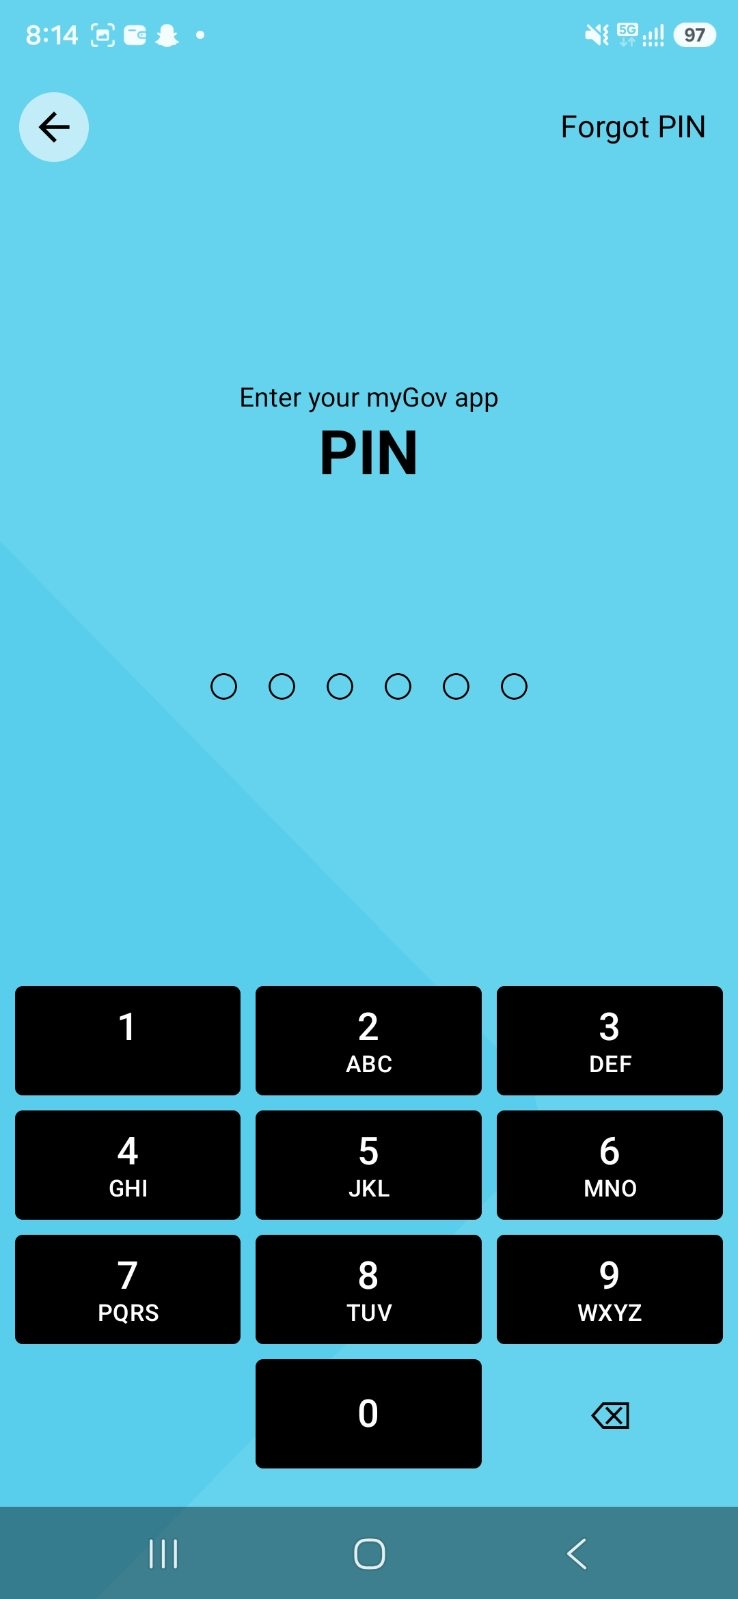
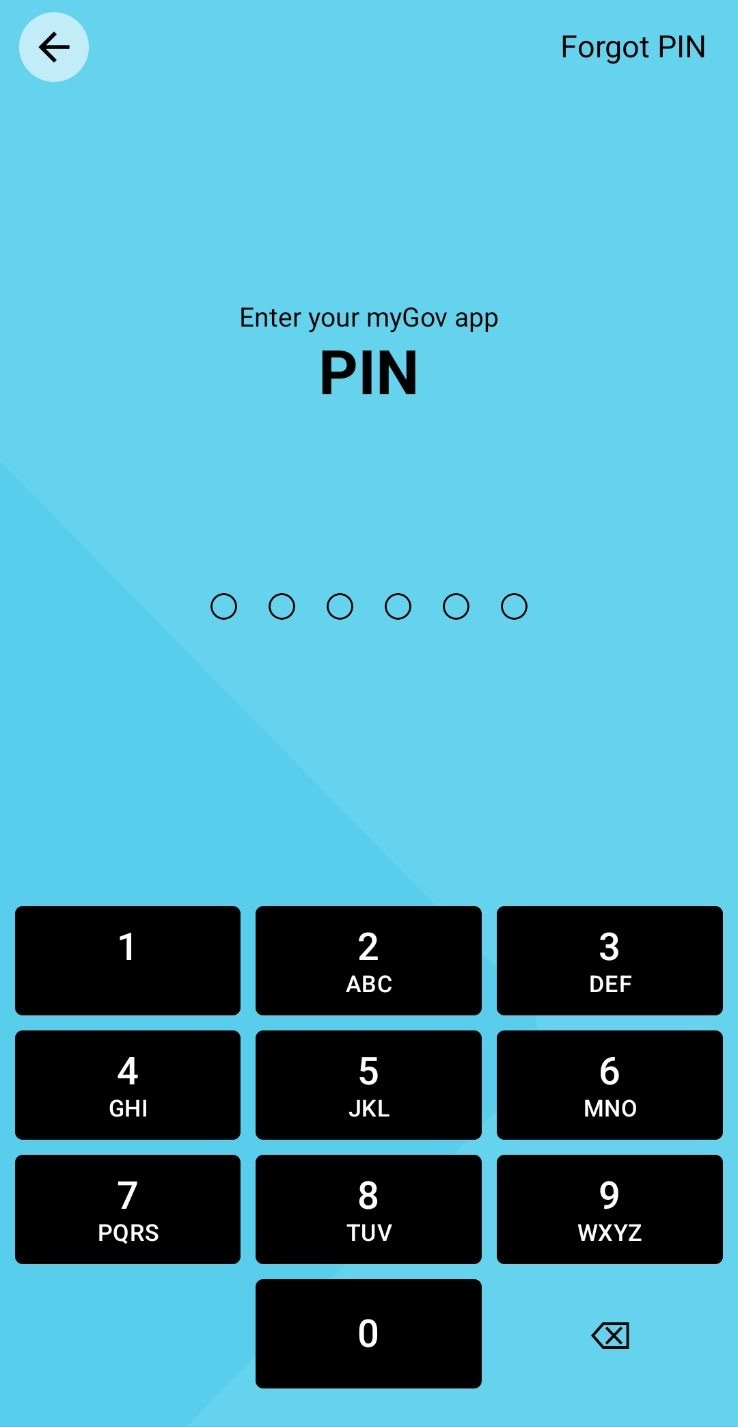
Crop system chrome off the screenshot screens
Strip the Android status bar and 3-button nav from the reference stills so the app UI fills the phone template. Keep the myGov headers and tab bar, and remap tap targets to the cropped frames.

diff --git a/index.html b/index.html
@@ -17,19 +17,19 @@
     <div id="phone">
       <div id="app">
 
-        <section class="screen active" id="welcome" style="background-image:url('screens/welcome.jpg?v=2')">
-          <button class="hot" style="left:78%;top:6.4%;width:10%;height:4.6%" data-go="scanner" aria-label="Scan"></button>
-          <button class="hot" style="left:88.5%;top:6.4%;width:10%;height:4.6%" data-go="info" aria-label="Info"></button>
+        <section class="screen active" id="welcome" style="background-image:url('screens/welcome.jpg?v=3')">
+          <button class="hot" style="left:78%;top:1.6%;width:10%;height:5.2%" data-go="scanner" aria-label="Scan"></button>
+          <button class="hot" style="left:88.5%;top:1.6%;width:10%;height:5.2%" data-go="info" aria-label="Info"></button>
           <div class="cover cover-cyan name-cover" id="welcomeNameCover">
             <span id="welcomeName">James</span>
           </div>
-          <button class="hot" style="left:4%;top:79.8%;width:92%;height:5.8%" data-go="pin" aria-label="Continue"></button>
-          <button class="hot" style="left:22%;top:88.4%;width:56%;height:2.4%" data-go="signin" aria-label="Sign in as someone else"></button>
+          <button class="hot" style="left:4%;top:83.8%;width:92%;height:6.5%" data-go="pin" aria-label="Continue"></button>
+          <button class="hot" style="left:22%;top:93.4%;width:56%;height:2.7%" data-go="signin" aria-label="Sign in as someone else"></button>
         </section>
 
-        <section class="screen" id="pin" style="background-image:url('screens/pin.jpg?v=2')">
-          <button class="hot" style="left:3%;top:6.8%;width:12%;height:4.6%" data-go="welcome" aria-label="Back"></button>
-          <button class="hot" style="left:70%;top:6.8%;width:27%;height:4.6%" data-go="forgot" aria-label="Forgot PIN"></button>
+        <section class="screen" id="pin" style="background-image:url('screens/pin.jpg?v=3')">
+          <button class="hot" style="left:3%;top:2.0%;width:12%;height:5.2%" data-go="welcome" aria-label="Back"></button>
+          <button class="hot" style="left:70%;top:2.0%;width:27%;height:5.2%" data-go="forgot" aria-label="Forgot PIN"></button>
           <div class="pin-dots" id="pinDots"><i></i><i></i><i></i><i></i><i></i><i></i></div>
           <div class="keypad">
             <button data-k="1"></button><button data-k="2"></button><button data-k="3"></button>
@@ -39,12 +39,12 @@
           </div>
         </section>
 
-        <section class="screen" id="wallet" style="background-image:url('screens/wallet.jpg?v=2')">
-          <button class="hot" style="left:76%;top:5.8%;width:10%;height:4.8%" data-msg="Edit wallet" aria-label="Edit"></button>
-          <button class="hot" style="left:87%;top:5.8%;width:10%;height:4.8%" data-go="addcard" aria-label="Add"></button>
-          <button class="hot" style="left:4%;top:19.2%;width:92%;height:26.2%" data-go="hcc" aria-label="Health Care Card"></button>
+        <section class="screen" id="wallet" style="background-image:url('screens/wallet.jpg?v=3')">
+          <button class="hot" style="left:76%;top:0.9%;width:10%;height:5.4%" data-msg="Edit wallet" aria-label="Edit"></button>
+          <button class="hot" style="left:87%;top:0.9%;width:10%;height:5.4%" data-go="addcard" aria-label="Add"></button>
+          <button class="hot" style="left:4%;top:15.9%;width:92%;height:29.4%" data-go="hcc" aria-label="Health Care Card"></button>
           <div class="cover cover-cream initials-cover" id="hccCover"><span id="hccInitials">JSP</span></div>
-          <button class="hot" style="left:4%;top:47%;width:92%;height:26.2%" data-go="medicare" aria-label="Medicare card"></button>
+          <button class="hot" style="left:4%;top:47.1%;width:92%;height:29.4%" data-go="medicare" aria-label="Medicare card"></button>
           <div class="cover cover-medgreen mednum-cover" id="walletMedCover">
             <div id="walletMedNum">**** **549 6</div>
             <div id="walletPeople">2 people</div>
@@ -57,14 +57,14 @@
           </div>
         </section>
 
-        <section class="screen" id="services" style="background-image:url('screens/services.jpg?v=2')">
-          <button class="hot" style="left:76%;top:5.8%;width:10%;height:4.8%" data-msg="Edit services" aria-label="Edit"></button>
-          <button class="hot" style="left:87%;top:5.8%;width:10%;height:4.8%" data-go="linksvc" aria-label="Add"></button>
-          <button class="hot" style="left:4%;top:19.3%;width:92%;height:6.8%" data-go="forms" aria-label="Forms"></button>
-          <button class="hot" style="left:4%;top:31.4%;width:92%;height:7.8%" data-svc="Centrelink"></button>
-          <button class="hot" style="left:4%;top:39.2%;width:92%;height:7.8%" data-go="medicare"></button>
-          <button class="hot" style="left:4%;top:47.1%;width:92%;height:7.8%" data-svc="My Health Record"></button>
-          <button class="hot" style="left:4%;top:55%;width:92%;height:8%" data-svc="Workforce Australia"></button>
+        <section class="screen" id="services" style="background-image:url('screens/services.jpg?v=3')">
+          <button class="hot" style="left:76%;top:0.9%;width:10%;height:5.4%" data-msg="Edit services" aria-label="Edit"></button>
+          <button class="hot" style="left:87%;top:0.9%;width:10%;height:5.4%" data-go="linksvc" aria-label="Add"></button>
+          <button class="hot" style="left:4%;top:16.0%;width:92%;height:7.6%" data-go="forms" aria-label="Forms"></button>
+          <button class="hot" style="left:4%;top:29.6%;width:92%;height:8.7%" data-svc="Centrelink"></button>
+          <button class="hot" style="left:4%;top:38.3%;width:92%;height:8.7%" data-go="medicare"></button>
+          <button class="hot" style="left:4%;top:47.2%;width:92%;height:8.7%" data-svc="My Health Record"></button>
+          <button class="hot" style="left:4%;top:56.0%;width:92%;height:9.0%" data-svc="Workforce Australia"></button>
           <div class="tabs">
             <button data-go="home" aria-label="Home"></button>
             <button data-go="wallet" aria-label="Wallet"></button>
@@ -73,9 +73,9 @@
           </div>
         </section>
 
-        <section class="screen" id="medicare" style="background-image:url('screens/medicare.jpg?v=2')">
-          <button class="hot" style="left:2.5%;top:5.8%;width:12%;height:5%" data-back aria-label="Back"></button>
-          <button class="hot" style="left:86%;top:5.8%;width:12%;height:5%" data-go="cardmenu" aria-label="More"></button>
+        <section class="screen" id="medicare" style="background-image:url('screens/medicare.jpg?v=3')">
+          <button class="hot" style="left:2.5%;top:0.9%;width:12%;height:5.4%" data-back aria-label="Back"></button>
+          <button class="hot" style="left:86%;top:0.9%;width:12%;height:5.4%" data-go="cardmenu" aria-label="More"></button>
           <div class="cover cover-white meddetail-cover" id="medDetailCover">
             <div class="mc-label">Card number</div>
             <div class="mc-num" id="medNum">3430 12549 6</div>
@@ -83,8 +83,8 @@
             <div class="mc-label">Valid to</div>
             <div class="mc-valid" id="medValid">Jun 2031</div>
           </div>
-          <button class="hot" style="left:4%;top:51%;width:92%;height:6.6%" data-msg="Opening Medicare to manage your card"></button>
-          <button class="hot" style="left:4%;top:61.5%;width:92%;height:10%" data-go="verify"></button>
+          <button class="hot" style="left:4%;top:51.5%;width:92%;height:7.4%" data-msg="Opening Medicare to manage your card"></button>
+          <button class="hot" style="left:4%;top:63.3%;width:92%;height:11.2%" data-go="verify"></button>
           <div class="cover cover-dark updated-cover" id="updatedCover">
             <span id="medUpdated">Last updated 8 Sept 2026 at 8:14 am</span>
           </div>

diff --git a/styles.css b/styles.css
@@ -31,7 +31,7 @@ button { cursor: pointer; border: 0; background: none; color: inherit; }
 #phone {
   position: relative;
   width: min(390px, 100vw - 24px);
-  aspect-ratio: 738 / 1599;
+  aspect-ratio: 738 / 1427;
   height: auto;
   max-height: calc(100dvh - 24px);
   border-radius: 24px;
@@ -74,21 +74,21 @@ body.debug .hot { outline: 1px solid rgba(255, 0, 0, .45); background: rgba(255,
 .name-cover {
   left: 16%;
   width: 68%;
-  top: 42.5%;
-  height: 4.8%;
+  top: 42.0%;
+  height: 5.4%;
   font-weight: 700;
-  font-size: 4.6cqh;
+  font-size: 5.2cqh;
 }
 #phone { container-type: size; }
 
 .initials-cover {
   left: 5.2%;
   width: 22%;
-  top: 41.4%;
-  height: 3.8%;
+  top: 40.8%;
+  height: 4.3%;
   justify-content: flex-start;
   font-weight: 600;
-  font-size: 3.2cqh;
+  font-size: 3.4cqh;
   padding-left: 1.2%;
   letter-spacing: 0.04em;
 }
@@ -96,8 +96,8 @@ body.debug .hot { outline: 1px solid rgba(255, 0, 0, .45); background: rgba(255,
 .mednum-cover {
   left: 8%;
   width: 50%;
-  top: 56.8%;
-  height: 6.2%;
+  top: 58.0%;
+  height: 6.9%;
   padding-left: 1%;
   justify-content: center;
 }
@@ -107,8 +107,8 @@ body.debug .hot { outline: 1px solid rgba(255, 0, 0, .45); background: rgba(255,
 .meddetail-cover {
   left: 8.5%;
   width: 78%;
-  top: 26.2%;
-  height: 22.5%;
+  top: 23.8%;
+  height: 25.2%;
   padding: 1% 2%;
   justify-content: flex-start;
 }
@@ -120,17 +120,17 @@ body.debug .hot { outline: 1px solid rgba(255, 0, 0, .45); background: rgba(255,
 .updated-cover {
   left: 10%;
   width: 80%;
-  top: 73.2%;
-  height: 2.2%;
+  top: 76.4%;
+  height: 2.5%;
   font-size: 1.2cqh;
 }
 
 .pin-dots {
   position: absolute;
   left: 28.5%;
-  top: 42.05%;
+  top: 41.5%;
   width: 43%;
-  height: 1.8%;
+  height: 2.0%;
   display: flex;
   justify-content: space-between;
   align-items: center;
@@ -154,8 +154,8 @@ body.debug .hot { outline: 1px solid rgba(255, 0, 0, .45); background: rgba(255,
   position: absolute;
   left: 1.8%;
   right: 1.8%;
-  top: 61.5%;
-  height: 30.2%;
+  top: 63.3%;
+  height: 33.8%;
   display: grid;
   grid-template-columns: 1fr 1fr 1fr;
   grid-template-rows: 1fr 1fr 1fr 1fr;
@@ -168,8 +168,8 @@ body.debug .hot { outline: 1px solid rgba(255, 0, 0, .45); background: rgba(255,
   position: absolute;
   left: 0;
   right: 0;
-  top: 84.7%;
-  height: 9.4%;
+  top: 89.3%;
+  height: 10.5%;
   display: grid;
   grid-template-columns: 1fr 1fr 1fr 1fr;
   z-index: 5;

diff --git a/sw.js b/sw.js
@@ -1,4 +1,4 @@
-const CACHE = "mygov-prop-v2";
+const CACHE = "mygov-prop-v3";
 const ASSETS = ["./","index.html","styles.css","app.js","manifest.webmanifest","icon.svg"];
 
 self.addEventListener("install", (event) => {
